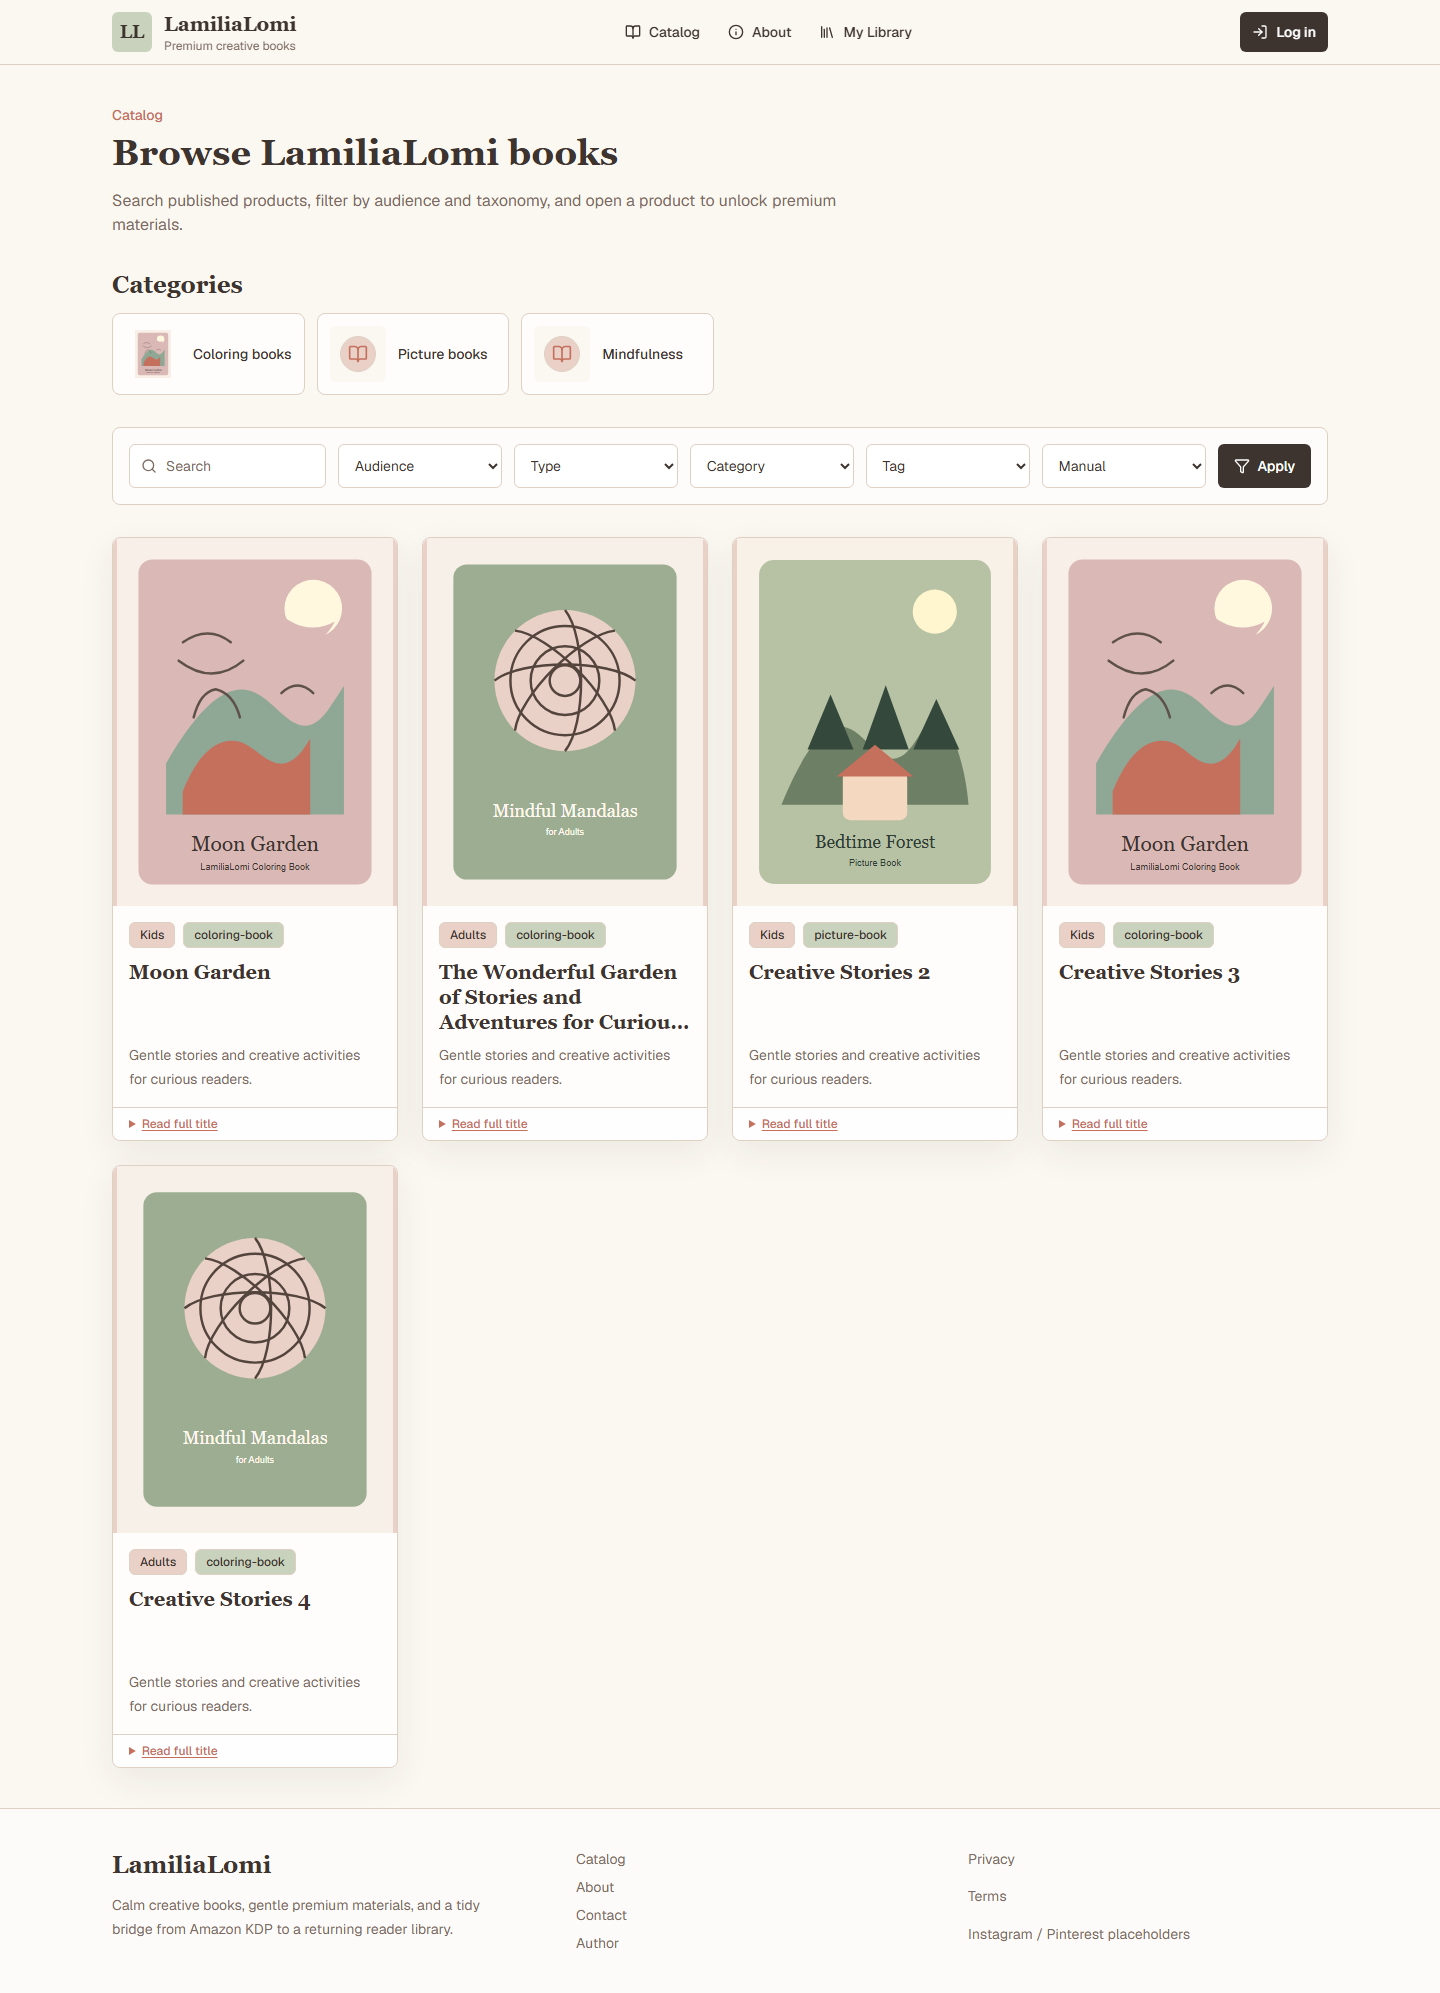
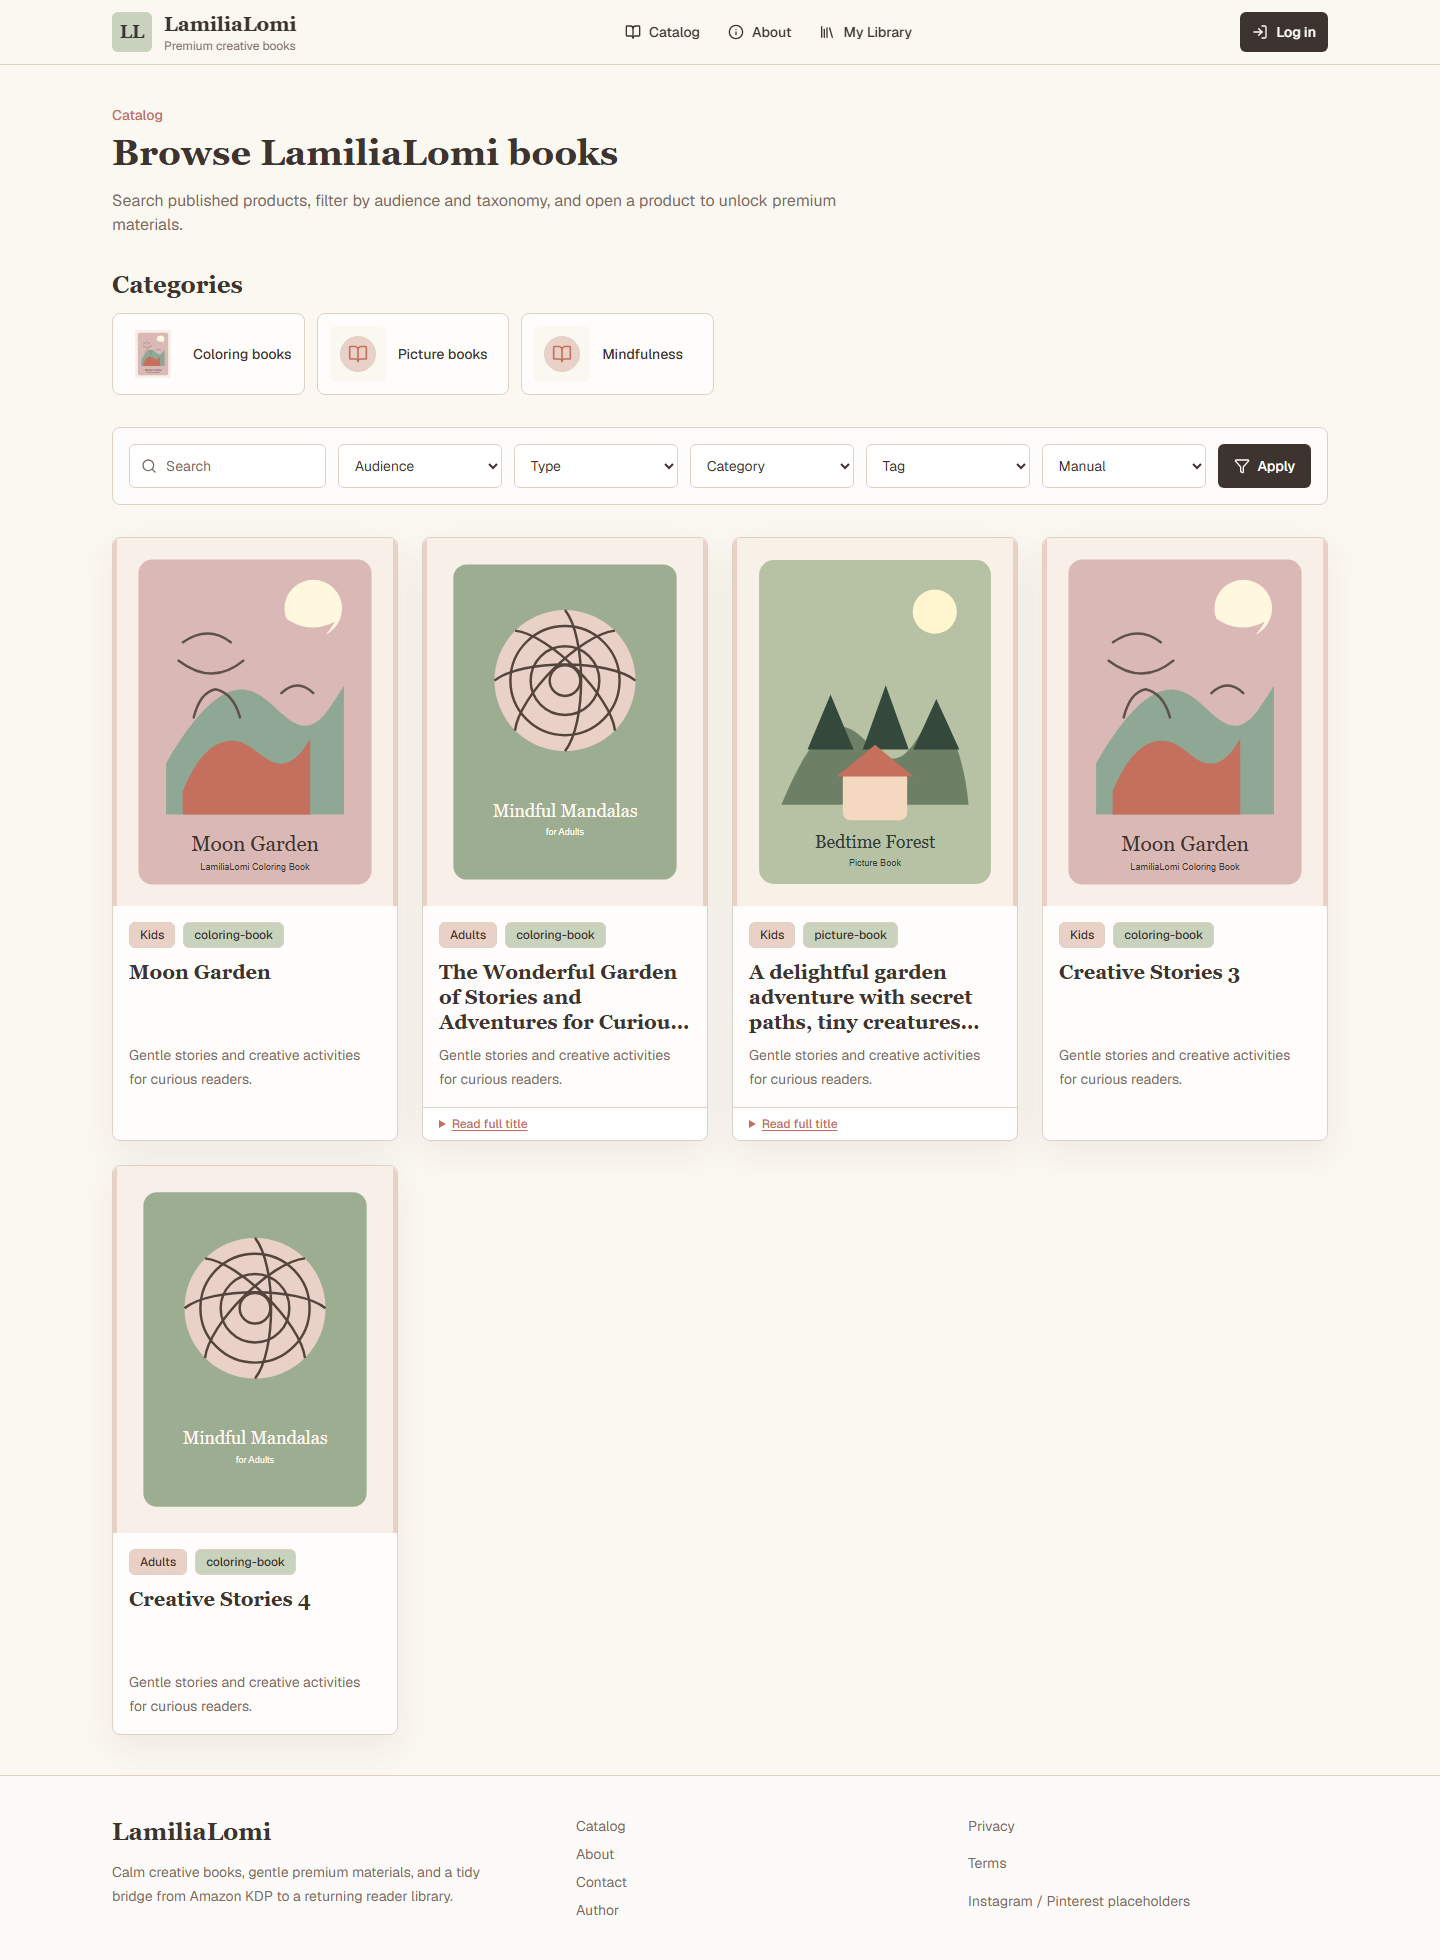
fix(catalog): disclose full titles only when truncated

diff --git a/tests/e2e/issue-62-catalog-polish.spec.ts b/tests/e2e/issue-62-catalog-polish.spec.ts
@@ -17,6 +17,7 @@ test("catalog category recovery, full titles and configurable responsive cards",
   const directory = path.resolve(process.env.ISSUE_62_EVIDENCE_DIR ?? testInfo.outputPath("screenshots"));
   const missingImage = "/api/category-media/bbbbbbbb-bbbb-4bbb-8bbb-bbbbbbbbbbbb?v=62626262-6262-4262-8262-626262626262";
   const longTitle = "The Wonderful Garden of Stories and Adventures for Curious Readers " + "W".repeat(60);
+  const responsiveTitle = "A delightful garden adventure with secret paths, tiny creatures and fun activities";
   const consoleErrors: string[] = [];
   const pageErrors: string[] = [];
   const failedResponses: { path: string; status: number; disposition: string }[] = [];
@@ -49,7 +50,7 @@ test("catalog category recovery, full titles and configurable responsive cards",
       product.slug = `issue-62-product-${index}`;
       product.status = "published";
       product.sortOrder = index;
-      const title = index === 0 ? "Moon Garden" : index === 1 ? longTitle : `Creative Stories ${index}`;
+      const title = index === 0 ? "Moon Garden" : index === 1 ? longTitle : index === 2 ? responsiveTitle : `Creative Stories ${index}`;
       product.translations = [{ locale: "en", title, shortDescription: "Gentle stories and creative activities for curious readers.", longDescription: "Catalog browser fixture." }];
       return product;
     });
@@ -77,6 +78,17 @@ test("catalog category recovery, full titles and configurable responsive cards",
       }
       await grid.locator("article").first().scrollIntoViewIfNeeded();
       await expect.poll(() => grid.evaluate(element => getComputedStyle(element).gridTemplateColumns.split(" ").length)).toBe(testInfo.project.name === "chromium" ? columns : 1);
+      const shortCard = grid.locator("article").first();
+      const longCard = grid.locator("article").nth(1);
+      const responsiveCard = grid.locator("article").nth(2);
+      const matchesTitleTruncation = async (card: typeof shortCard) => {
+        const truncated = await card.locator("h3").evaluate(element => element.scrollHeight > element.clientHeight + 1);
+        await expect(card.locator("summary")).toHaveCount(truncated ? 1 : 0);
+        return truncated;
+      };
+      await expect.poll(() => longCard.locator("summary").count()).toBe(1);
+      await expect(shortCard.locator("details")).toHaveCount(0);
+      await matchesTitleTruncation(responsiveCard);
       const titleHeights = await grid.locator("h3").evaluateAll(headings => headings.map(heading => heading.getBoundingClientRect().height));
       expect(Math.max(...titleHeights) - Math.min(...titleHeights)).toBeLessThan(1);
       const titleRegion = await grid.locator("h3").first().evaluate(element => ({ height: element.getBoundingClientRect().height, lineHeight: parseFloat(getComputedStyle(element).lineHeight) }));
@@ -94,7 +106,8 @@ test("catalog category recovery, full titles and configurable responsive cards",
       await page.getByTestId("product-catalog-grid").locator("article").first().scrollIntoViewIfNeeded();
       await screenshot("grid", false);
     }
-    const longCard = page.getByTestId("product-catalog-grid").locator("article").nth(1);
+    const grid = page.getByTestId("product-catalog-grid");
+    const longCard = grid.locator("article").nth(1);
     const disclosure = longCard.locator("summary");
     await disclosure.scrollIntoViewIfNeeded();
     if (testInfo.project.name === "chromium") {
@@ -106,12 +119,29 @@ test("catalog category recovery, full titles and configurable responsive cards",
     expect(await page.evaluate(() => document.documentElement.scrollWidth > innerWidth)).toBe(false);
     await screenshot("full-title", false);
     if (testInfo.project.name === "chromium") {
+      const responsiveCard = grid.locator("article").nth(2);
+      const responsiveHeading = responsiveCard.locator("h3");
+      expect(await responsiveHeading.evaluate(element => element.scrollHeight > element.clientHeight + 1)).toBe(true);
+      await expect(responsiveCard.locator("summary")).toHaveCount(1);
       await page.setViewportSize({ width: 800, height: 1024 });
       await expect.poll(() => page.getByTestId("product-catalog-grid").evaluate(element => getComputedStyle(element).gridTemplateColumns.split(" ").length)).toBe(2);
+      await expect.poll(async () => {
+        const truncated = await responsiveHeading.evaluate(element => element.scrollHeight > element.clientHeight + 1);
+        return !truncated && await responsiveCard.locator("summary").count() === 0;
+      }).toBe(true);
       expect(await page.evaluate(() => document.documentElement.scrollWidth > innerWidth)).toBe(false);
       await page.evaluate(() => scrollTo(0, 0));
       await screenshot("tablet");
+      await page.setViewportSize({ width: 1440, height: 900 });
+      await expect.poll(() => responsiveCard.locator("summary").count()).toBe(1);
     }
+    if (testInfo.project.name === "chromium") {
+      await disclosure.focus();
+      await page.keyboard.press("Enter");
+    } else {
+      await disclosure.tap();
+    }
+    await expect(longCard.locator("details")).not.toHaveAttribute("open", "");
     expect(pageErrors).toEqual([]);
     expect(failedResponses.filter(entry => entry.disposition === "unresolved")).toEqual([]);
     expect(failedRequests.filter(entry => entry.disposition === "unresolved")).toEqual([]);

diff --git a/src/components/product-card.test.tsx b/src/components/product-card.test.tsx
@@ -1,6 +1,6 @@
 /** @vitest-environment jsdom */
 
-import { cleanup, fireEvent, render, screen } from "@testing-library/react";
+import { act, cleanup, fireEvent, render, screen } from "@testing-library/react";
 import type { AnchorHTMLAttributes } from "react";
 import { createElement } from "react";
 import { afterEach, describe, expect, it, vi } from "vitest";
@@ -30,15 +30,73 @@ const product = {
   cover: { path: "/cover.png", title: "Cover", id: "cover-1" },
 } as LocalizedProductView;
 
-afterEach(cleanup);
+class TestResizeObserver {
+  static instances: TestResizeObserver[] = [];
+  private readonly callback: ResizeObserverCallback;
+
+  constructor(callback: ResizeObserverCallback) {
+    this.callback = callback;
+    TestResizeObserver.instances.push(this);
+  }
+
+  observe() {}
+  disconnect() {}
+
+  trigger() {
+    this.callback([], this as unknown as ResizeObserver);
+  }
+}
+
+afterEach(() => {
+  cleanup();
+  vi.unstubAllGlobals();
+  TestResizeObserver.instances = [];
+});
+
+function setTitleMeasurements(heading: HTMLElement, clientHeight: number, scrollHeight: number) {
+  Object.defineProperties(heading, {
+    clientHeight: { configurable: true, get: () => clientHeight },
+    scrollHeight: { configurable: true, get: () => scrollHeight },
+  });
+}
+
+function triggerResize() {
+  act(() => TestResizeObserver.instances.at(-1)?.trigger());
+}
 
 describe("ProductCard", () => {
-  it("reserves a three-line title area and exposes the full title through a keyboard and touch disclosure", () => {
+  it("keeps short titles free of a disclosure and updates when the card width changes", () => {
+    vi.stubGlobal("ResizeObserver", TestResizeObserver);
+    const shortProduct = { ...product, title: "Moon Garden" } as LocalizedProductView;
+
+    render(<ProductCard product={shortProduct} locale="en" />);
+
+    const heading = screen.getByRole("heading", { name: "Moon Garden" });
+    expect(heading).toHaveClass("line-clamp-3", "min-h-[3lh]", "[overflow-wrap:anywhere]");
+    setTitleMeasurements(heading, 60, 60);
+    triggerResize();
+    expect(screen.queryByText("Read full title")).not.toBeInTheDocument();
+
+    setTitleMeasurements(heading, 60, 80);
+    triggerResize();
+    expect(screen.getByText("Read full title")).toBeInTheDocument();
+
+    setTitleMeasurements(heading, 60, 60);
+    triggerResize();
+    expect(screen.queryByText("Read full title")).not.toBeInTheDocument();
+  });
+
+  it("reserves a three-line title area and exposes a truncated full title through a keyboard and touch disclosure", () => {
+    vi.stubGlobal("ResizeObserver", TestResizeObserver);
     render(<ProductCard product={product} locale="en" />);
 
     const heading = screen.getByRole("heading", { name: longTitle });
     expect(heading).toHaveClass("line-clamp-3", "min-h-[3lh]", "[overflow-wrap:anywhere]");
     expect(heading).toHaveTextContent(longTitle);
+    expect(heading).toHaveAttribute("aria-label", longTitle);
+
+    setTitleMeasurements(heading, 60, 80);
+    triggerResize();
 
     const fullTitleDisclosure = screen.getByText("Read full title");
     expect(fullTitleDisclosure.tagName).toBe("SUMMARY");

diff --git a/src/components/product-card-title-disclosure.tsx b/src/components/product-card-title-disclosure.tsx
@@ -1,0 +1,47 @@
+"use client";
+
+import { useEffect, useRef, useState } from "react";
+
+export function ProductCardTitleDisclosure({ title }: { title: string }) {
+  const anchorRef = useRef<HTMLSpanElement>(null);
+  const [isTitleTruncated, setIsTitleTruncated] = useState(false);
+
+  useEffect(() => {
+    const heading = anchorRef.current?.closest("article")?.querySelector<HTMLHeadingElement>("[data-product-card-title]");
+    if (!heading) return;
+
+    let active = true;
+    const updateTruncation = () => {
+      if (!active) return;
+      setIsTitleTruncated(heading.scrollHeight > heading.clientHeight + 1);
+    };
+    const resizeObserver = typeof ResizeObserver === "undefined" ? null : new ResizeObserver(updateTruncation);
+
+    resizeObserver?.observe(heading);
+    window.addEventListener("resize", updateTruncation);
+    updateTruncation();
+    void document.fonts?.ready.then(updateTruncation);
+
+    return () => {
+      active = false;
+      resizeObserver?.disconnect();
+      window.removeEventListener("resize", updateTruncation);
+    };
+  }, [title]);
+
+  return (
+    <>
+      <span hidden ref={anchorRef} />
+      {isTitleTruncated && (
+        <details className="rounded-b-lg border-t border-[var(--color-border)] bg-white/70 px-3 sm:px-4">
+          <summary className="cursor-pointer py-2 text-xs font-medium text-[var(--color-terracotta)] underline underline-offset-2 focus-visible:outline-2 focus-visible:outline-offset-2 focus-visible:outline-[var(--color-terracotta)]">
+            Read full title
+          </summary>
+          <p className="[overflow-wrap:anywhere] pb-3 text-sm font-medium text-[var(--color-ink)]" data-testid="full-product-title">
+            {title}
+          </p>
+        </details>
+      )}
+    </>
+  );
+}

diff --git a/src/components/product-card.tsx b/src/components/product-card.tsx
@@ -6,6 +6,7 @@ import type { Locale } from "@/i18n/routing";
 import type { LocalizedProductView } from "@/lib/types";
 
 import { Badge } from "./ui/badge";
+import { ProductCardTitleDisclosure } from "./product-card-title-disclosure";
 
 export function ProductCard({
   product,
@@ -40,7 +41,7 @@ export function ProductCard({
             <Badge className="bg-[var(--color-sage)]">{product.productType}</Badge>
           </div>
           <div className="min-w-0">
-            <h3 aria-label={product.title} className="line-clamp-3 min-h-[3lh] [overflow-wrap:anywhere] font-serif text-xl font-semibold leading-tight text-[var(--color-ink)]">
+            <h3 aria-label={product.title} data-product-card-title className="line-clamp-3 min-h-[3lh] [overflow-wrap:anywhere] font-serif text-xl font-semibold leading-tight text-[var(--color-ink)]">
               {product.title}
             </h3>
             <p className="mt-2 line-clamp-3 text-sm leading-6 text-[var(--color-muted)]">
@@ -49,14 +50,7 @@ export function ProductCard({
           </div>
         </div>
       </Link>
-      <details className="rounded-b-lg border-t border-[var(--color-border)] bg-white/70 px-3 sm:px-4">
-        <summary className="cursor-pointer py-2 text-xs font-medium text-[var(--color-terracotta)] underline underline-offset-2 focus-visible:outline-2 focus-visible:outline-offset-2 focus-visible:outline-[var(--color-terracotta)]">
-          Read full title
-        </summary>
-        <p className="[overflow-wrap:anywhere] pb-3 text-sm font-medium text-[var(--color-ink)]" data-testid="full-product-title">
-          {product.title}
-        </p>
-      </details>
+      <ProductCardTitleDisclosure title={product.title} />
     </article>
   );
 }

diff --git a/docs/verification/issue-62/README.md b/docs/verification/issue-62/README.md
@@ -1,14 +1,14 @@
 # Catalog polish verification
 
-The Catalog now uses a neutral book icon for missing or failed category images, while valid images and the legacy category proxy keep their existing delivery behavior. Product cards preserve the 8.5:11 uncropped cover, reserve three actual text lines for the title, and expose the complete title with a native keyboard/touch disclosure. Long unbroken words wrap within the card.
+The Catalog now uses a neutral book icon for missing or failed category images, while valid images and the legacy category proxy keep their existing delivery behavior. Product cards preserve the 8.5:11 uncropped cover, reserve three actual text lines for the title, and show the native keyboard/touch full-title disclosure only when the rendered title is clipped. The disclosure responds to card resizing, including 3/4/5-column settings. Long unbroken words wrap within the card.
 
 ## Local targeted checks
 
 - PASS: changed-file ESLint and `git diff --check`.
-- PASS: `node node_modules/vitest/vitest.mjs run src/components/category-tile-image.test.tsx src/components/product-card.test.tsx` — 4 tests.
-- PASS: `PLAYWRIGHT_BASE_URL=http://127.0.0.1:3103 node node_modules/@playwright/test/cli.js test tests/e2e/issue-62-catalog-polish.spec.ts --workers=1` — Chromium 1440x900 and Pixel 7, 2 scenarios.
+- PASS: `node node_modules/vitest/vitest.mjs run src/components/product-card.test.tsx --maxWorkers=1` — 2 focused component tests.
+- PASS: Playwright issue-62 flow — desktop Chromium and Pixel 7, 2 scenarios; committed screenshots and diagnostics are in `browser/`.
 
-The browser flow uses a disposable local snapshot, restores the original snapshot in `finally`, and never writes Production. It checks a valid category image, an intentionally absent versioned image, no image, short and long/unbroken product names, all desktop settings (3/4/5), tablet two-column layout, mobile one-column layout, image decoding, 8.5:11 cover geometry, equal title regions, keyboard/touch disclosure, and no horizontal overflow. The early desktop overflow regression was reproduced, fixed, and retested.
+The browser flow uses a disposable local snapshot, restores the original snapshot in `finally`, and never writes Production. It checks a valid category image, an intentionally absent versioned image, no image, short and long/unbroken product names, title disclosure visibility against actual overflow at all desktop settings (3/4/5), tablet two-column layout, mobile one-column layout, image decoding, 8.5:11 cover geometry, equal title regions, keyboard/touch open and close, viewport resizing, and no horizontal overflow. The early desktop overflow regression was reproduced, fixed, and retested.
 
 ## Browser evidence
 
